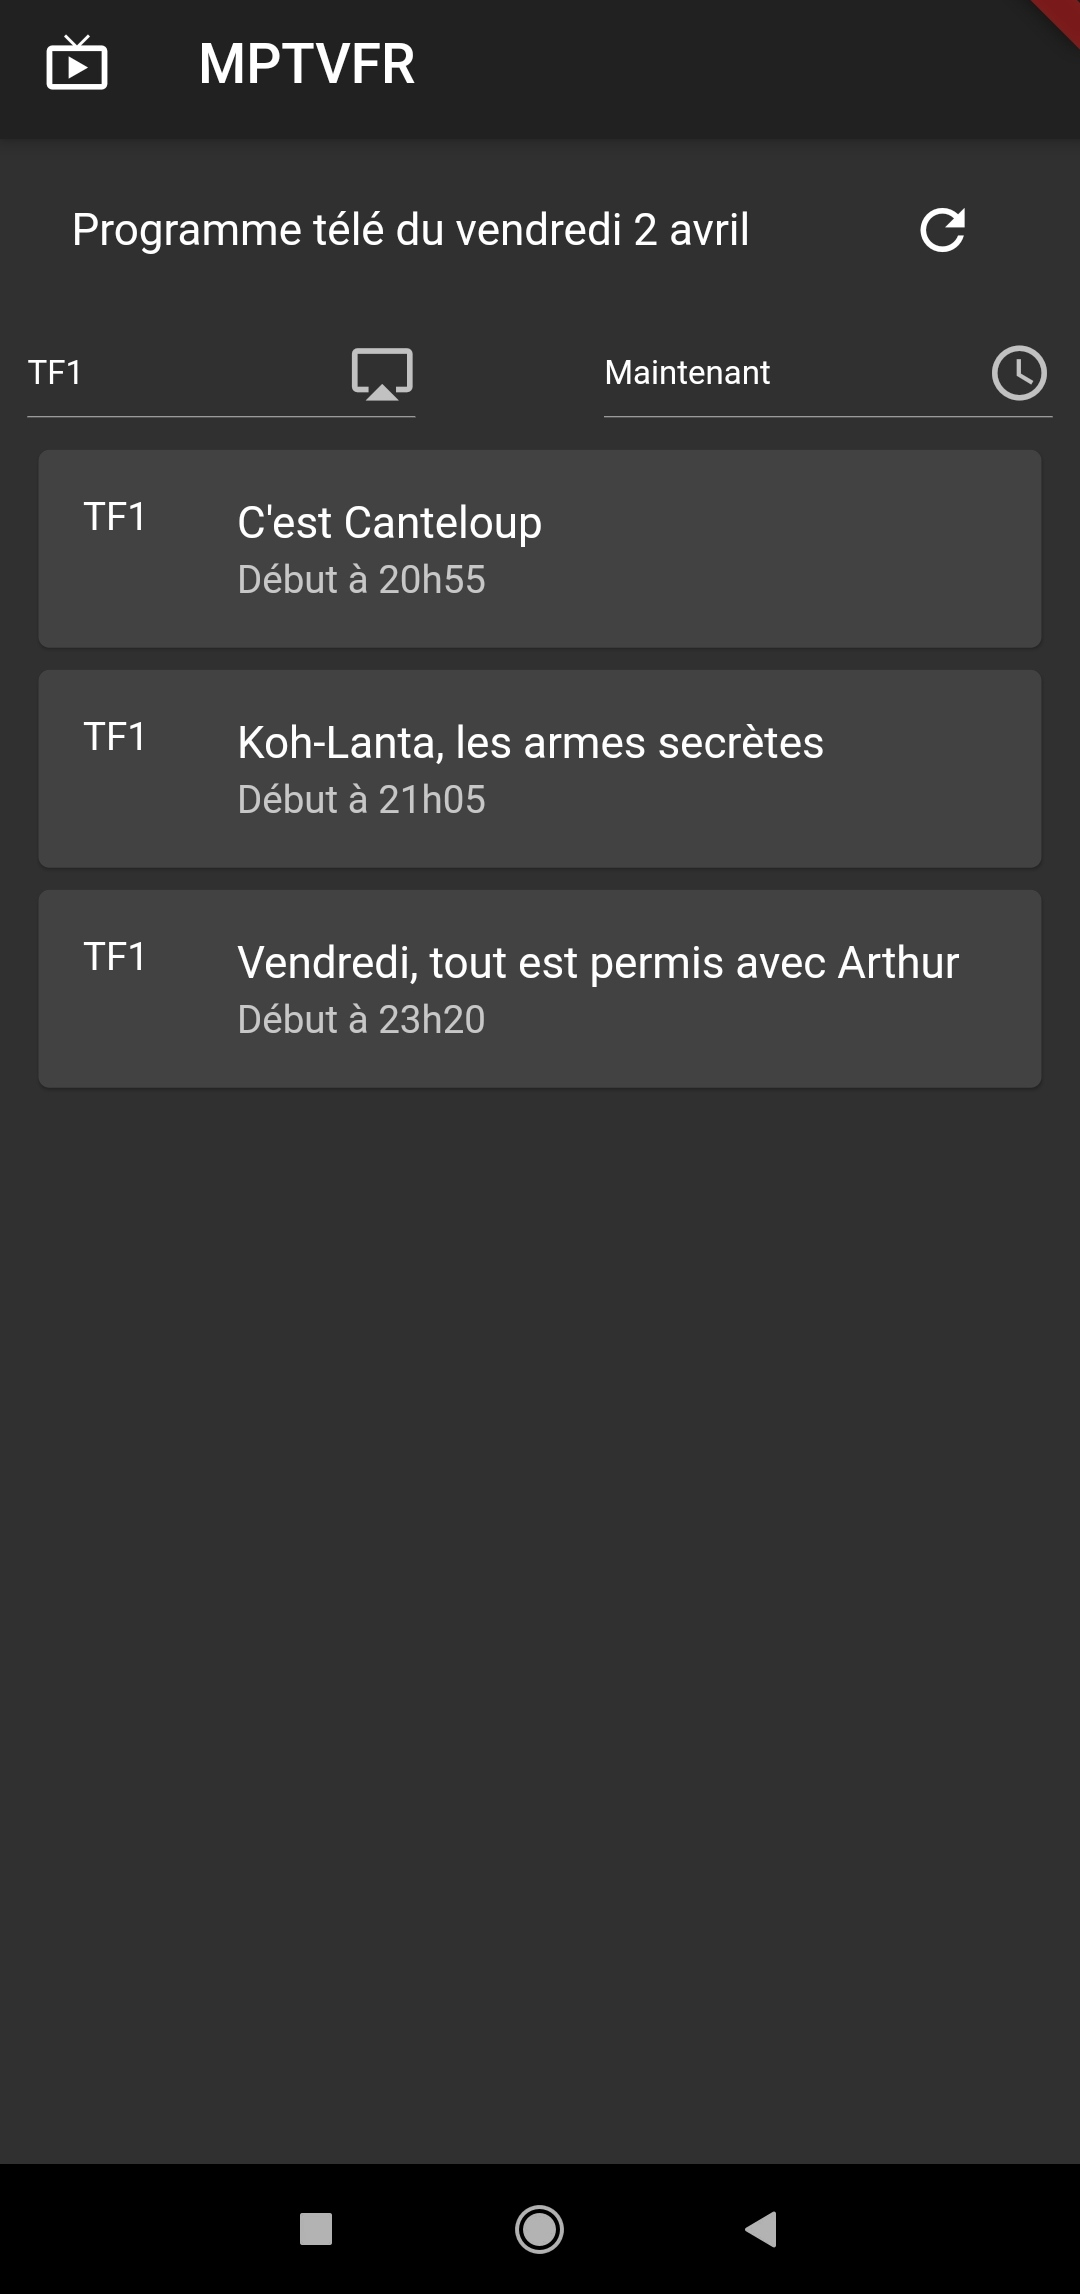
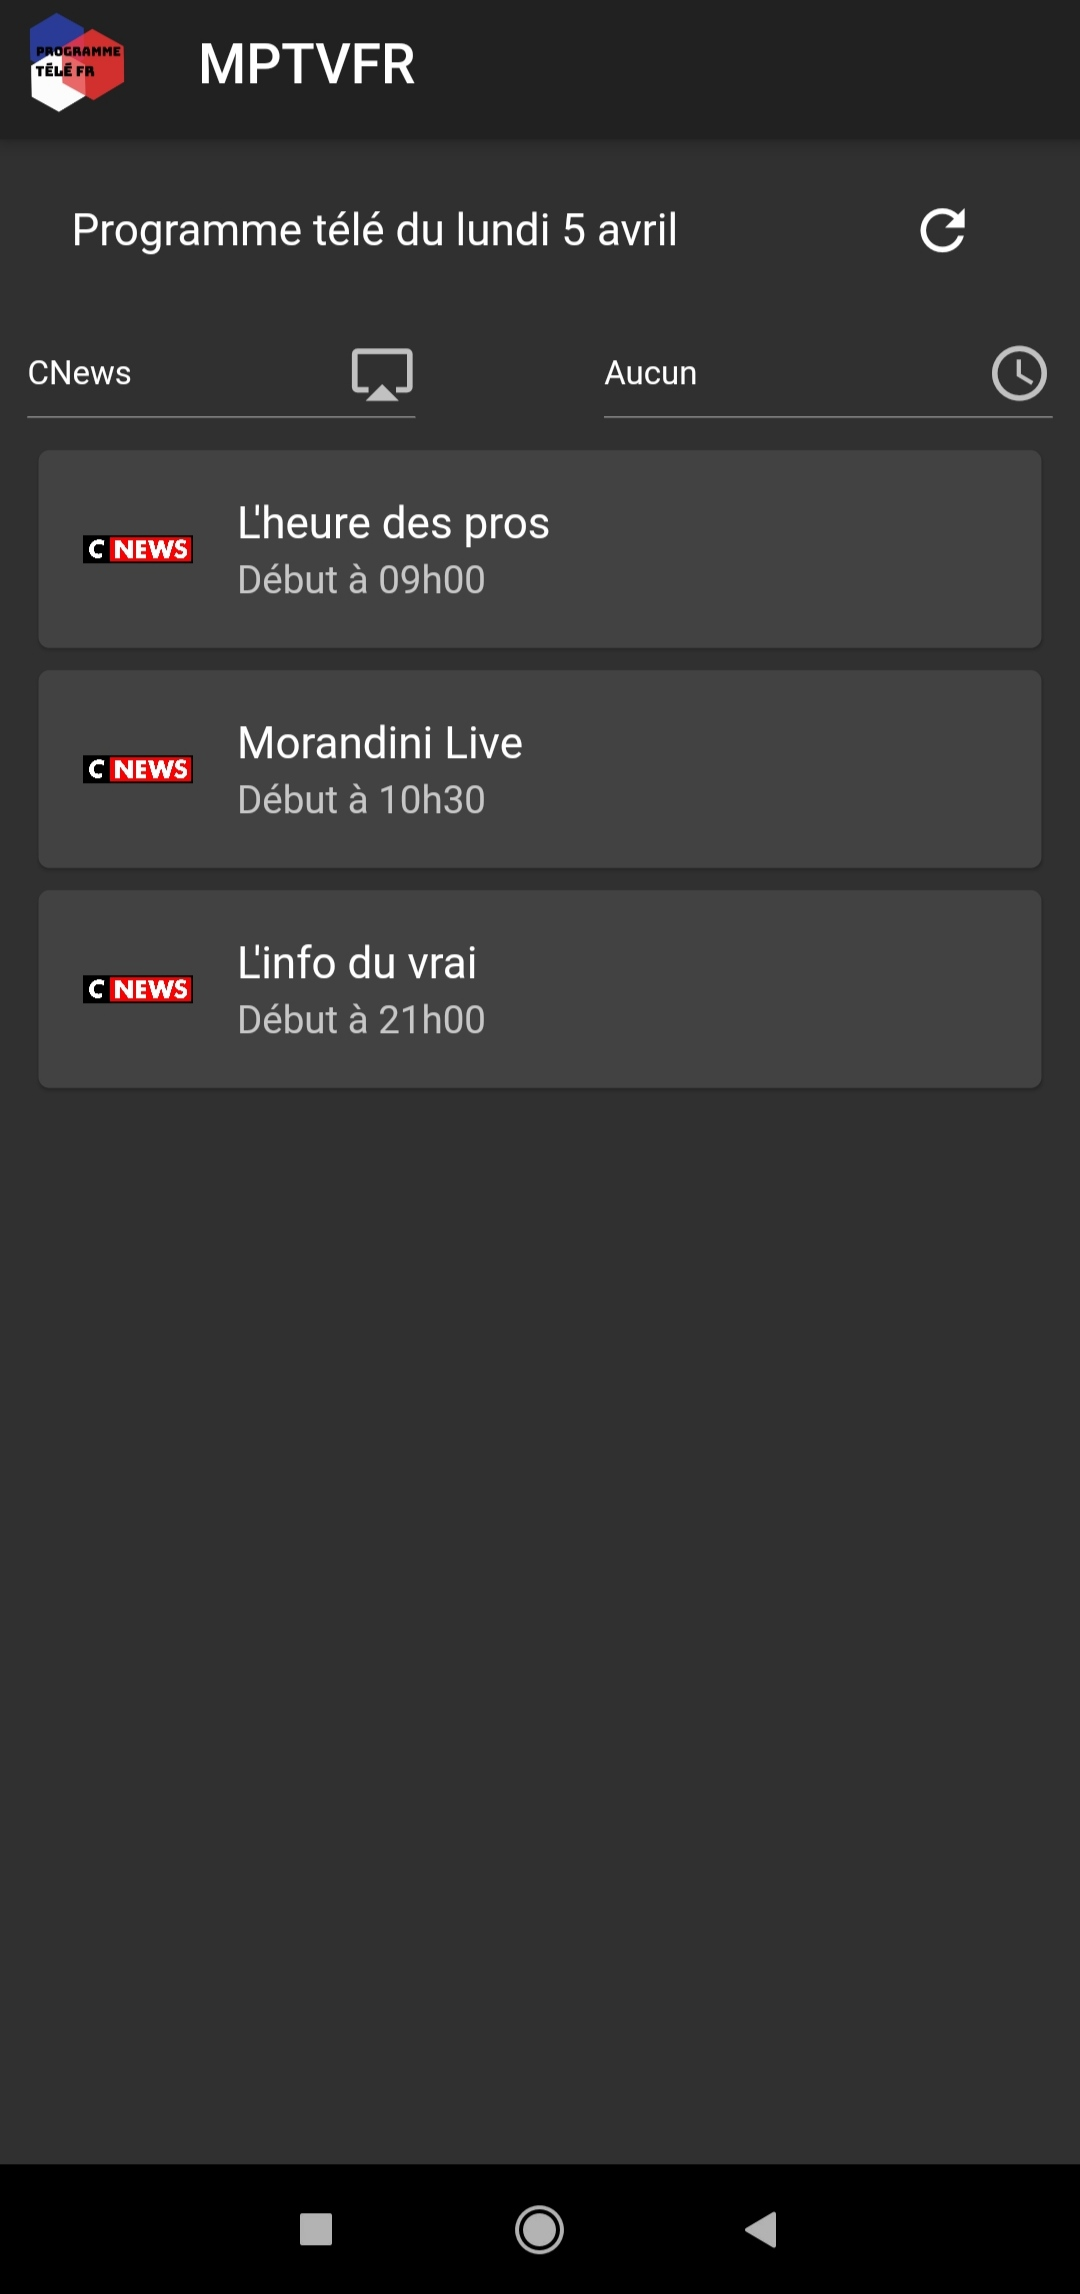
Add gif

diff --git a/lib/main.dart b/lib/main.dart
@@ -242,7 +242,7 @@ class _HomePageState extends State<HomePage> {
           title: Text(widget.title),
           leading: IconButton(
               icon: new Image(
-                image: AssetImage('logo.png'),
+                image: AssetImage('logos/logo.png'),
               ),
               onPressed: () {
                 showInfo();

diff --git a/README.md b/README.md
@@ -7,6 +7,8 @@
 <h2 align="center">MPTVFR</h2>
 <h4 align="center">Une application simple pour consulter le programme télé du jour en France.</h4>
 
+![demo](https://github.com/nag763/monprogrammetv/blob/master/demo.gif)
+
 <img src="https://github.com/nag763/monprogrammetv/blob/main/screen1.jpg" alt="drawing" width="200"/>
 <img src="https://github.com/nag763/monprogrammetv/blob/main/screen2.jpg" alt="drawing" width="200"/>
 <img src="https://github.com/nag763/monprogrammetv/blob/main/screen3.jpg" alt="drawing" width="200"/>
